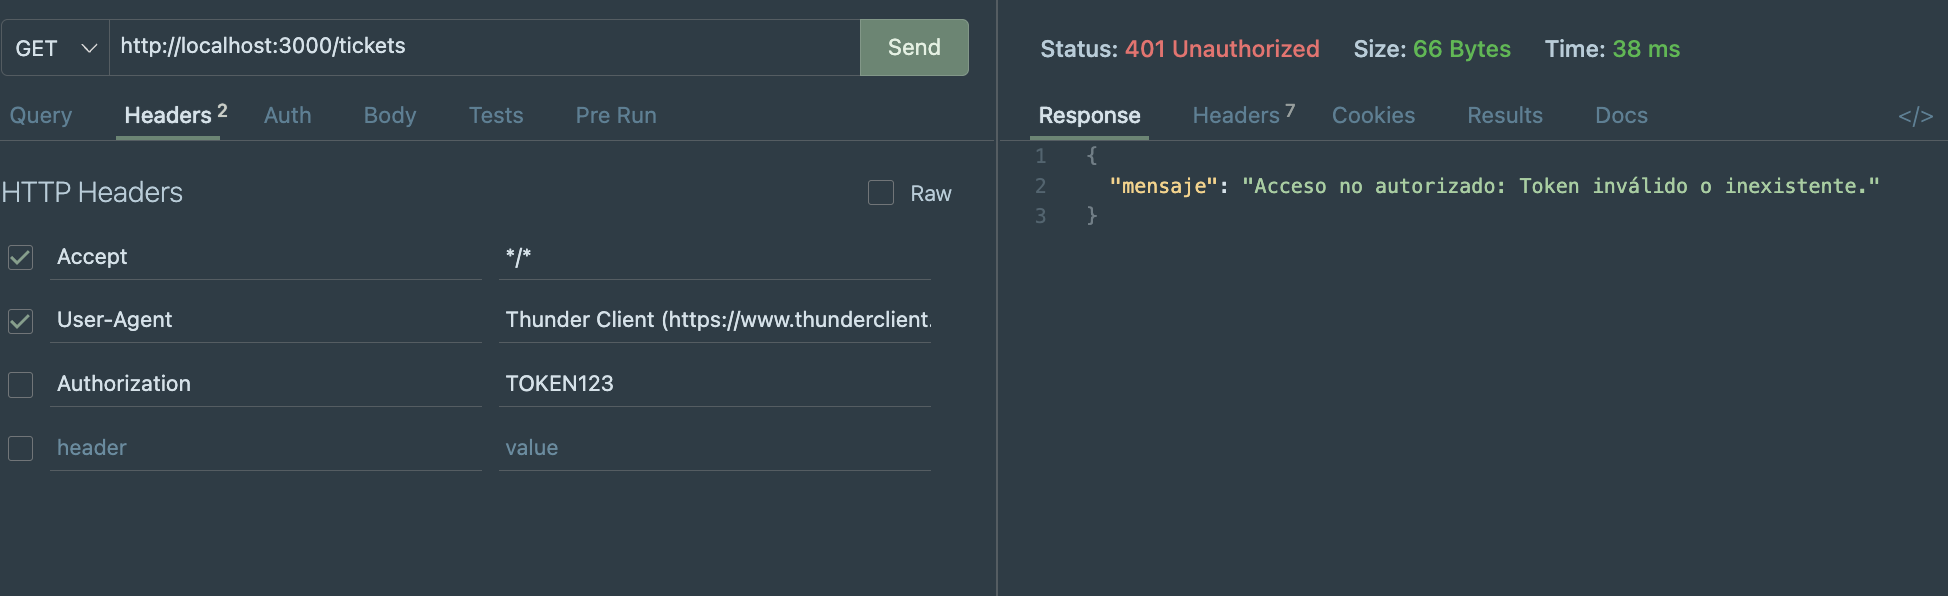
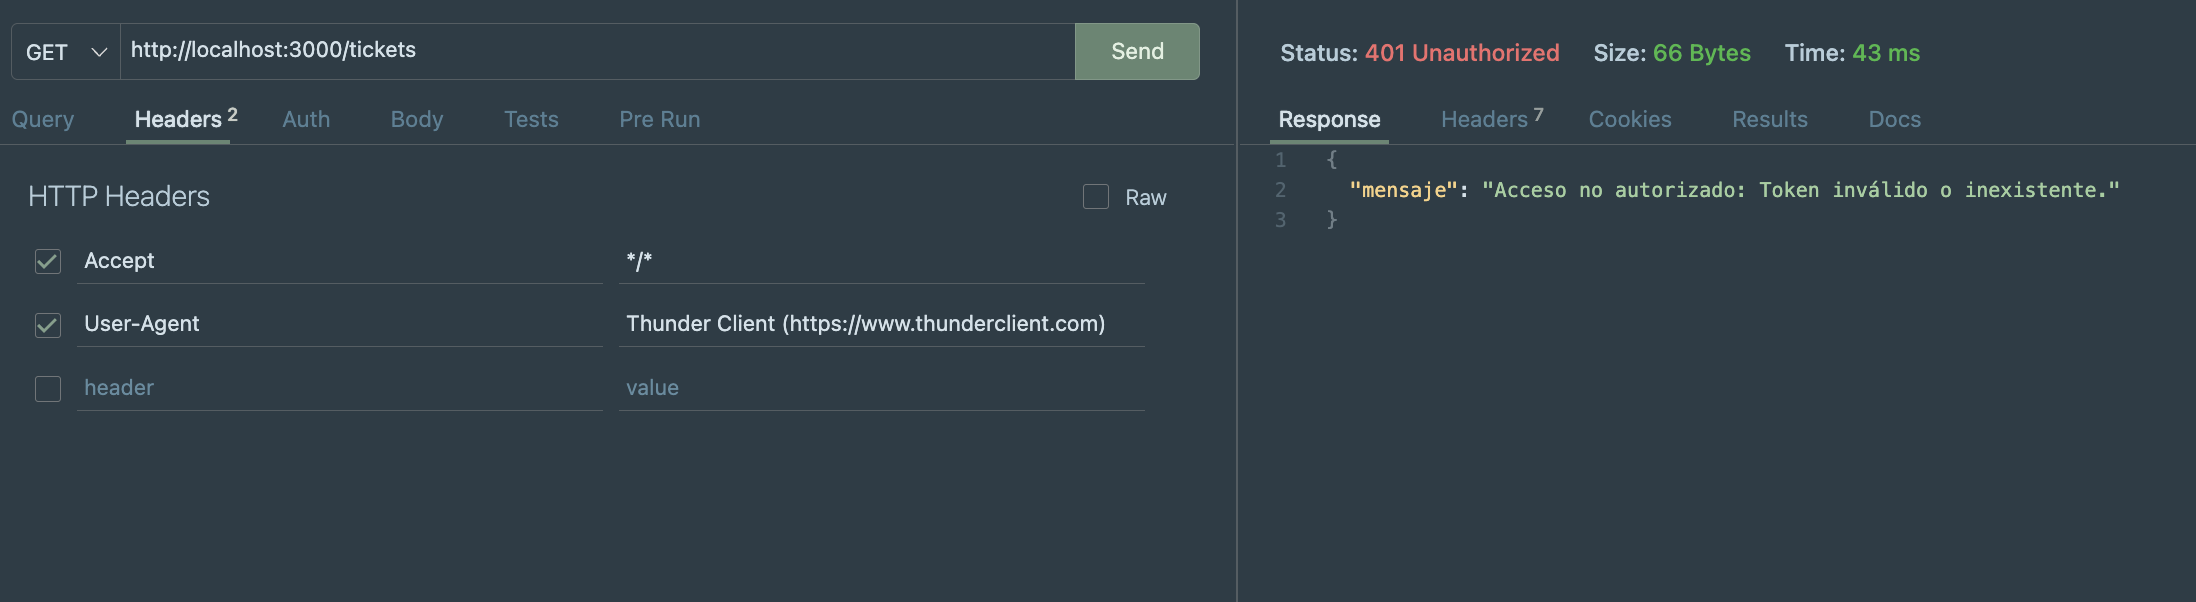
docs: README completo con evidencias y documentación final

diff --git a/README.md b/README.md
@@ -1,1 +1,323 @@
-# Proyecto HelpDesk
+# HelpDesk Smart Priority
+
+![Version](https://img.shields.io/badge/version-1.0.0-brightgreen)
+![License](https://img.shields.io/badge/license-ISC-yellow)
+![Node](https://img.shields.io/badge/node-22%20LTS-green)
+![Express](https://img.shields.io/badge/express-5.x-lightgrey)
+![MySQL](https://img.shields.io/badge/mysql-8.x-blue)
+![Auth](https://img.shields.io/badge/auth-token-orange)
+
+Sistema web para gestionar solicitudes de soporte técnico. Permite registrar, clasificar y resolver tickets según un algoritmo automático de priorización basado en impacto, urgencia, categoría y tiempo estimado.
+
+---
+
+## Tecnologías utilizadas
+
+| Capa | Tecnología |
+|------|-----------|
+| Runtime | Node.js |
+| Framework | Express v5 |
+| Base de datos | MySQL |
+| Driver BD | mysql2 |
+| Variables de entorno | dotenv |
+| CORS | cors |
+| Desarrollo | nodemon |
+| Frontend | HTML, CSS, JavaScript (Fetch API) |
+
+---
+
+## Requisitos previos
+
+- Node.js instalado
+- MySQL instalado y corriendo
+- Git
+
+---
+
+## Instalación
+
+1. Clona el repositorio:
+```bash
+git clone https://github.com/GGallegosO/HelpDesk.git
+cd HelpDesk
+```
+
+2. Instala las dependencias:
+```bash
+npm install
+```
+
+3. Crea la base de datos en MySQL:
+```sql
+CREATE DATABASE helpdesk;
+USE helpdesk;
+
+CREATE TABLE tickets (
+    id INT AUTO_INCREMENT PRIMARY KEY,
+    nombreSolicitante VARCHAR(100) NOT NULL,
+    correo VARCHAR(100) NOT NULL,
+    categoria VARCHAR(50),
+    descripcion TEXT NOT NULL,
+    impacto VARCHAR(20),
+    urgencia VARCHAR(20),
+    tiempoEstimado INT,
+    prioridad VARCHAR(20),
+    estado VARCHAR(20) DEFAULT 'pendiente',
+    fechaCreacion TIMESTAMP DEFAULT CURRENT_TIMESTAMP
+);
+
+CREATE TABLE users (
+    id INT AUTO_INCREMENT PRIMARY KEY,
+    username VARCHAR(50) NOT NULL,
+    password VARCHAR(100) NOT NULL,
+    rol VARCHAR(20) NOT NULL
+);
+
+INSERT INTO users (username, password, rol) VALUES
+('admin', '1234', 'admin'),
+('usuario1', '1234', 'usuario');
+```
+
+4. Configura las variables de entorno. Crea un archivo `.env` en la raíz:
+```env
+DB_HOST=        # host de tu base de datos (ej: localhost)
+DB_USER=        # usuario de MySQL
+DB_PASSWORD=    # contraseña de MySQL
+DB_NAME=        # nombre de la base de datos (ej: helpdesk)
+DB_PORT=        # puerto de MySQL (por defecto 3306)
+PORT=           # puerto del servidor (por defecto 3000)
+SECRET_TOKEN=   # token secreto para autenticación
+```
+
+---
+
+## Ejecución
+
+Modo producción:
+```bash
+npm start
+```
+
+Modo desarrollo (con recarga automática):
+```bash
+npm run dev
+```
+
+El servidor quedará disponible en `http://localhost:3000`
+
+---
+
+## Estructura del proyecto
+
+```
+HelpDesk/
+├── app.js
+├── config/
+├── controllers/
+├── data/
+├── middlewares/
+├── routes/
+├── services/
+├── public/
+│   ├── css/
+│   ├── js/
+│   └── *.html
+└── docs/
+```
+
+---
+
+## Endpoints
+
+### Autenticación
+
+| Método | Endpoint | Descripción | Requiere token |
+|--------|----------|-------------|----------------|
+| POST | `/auth/login` | Iniciar sesión | No |
+
+### Tickets
+
+| Método | Endpoint | Descripción | Requiere token |
+|--------|----------|-------------|----------------|
+| GET | `/tickets` | Listar tickets activos | Sí |
+| GET | `/tickets/historial` | Listar tickets resueltos | Sí |
+| GET | `/tickets/:id` | Obtener ticket por ID | Sí |
+| POST | `/tickets` | Crear nuevo ticket | No |
+| PUT | `/tickets/:id/evaluar` | Evaluar y clasificar ticket | Sí |
+| PUT | `/tickets/:id` | Editar ticket | Sí |
+| PATCH | `/tickets/:id/resolver` | Marcar como resuelto | Sí |
+
+> Los tickets no se eliminan físicamente. Al resolverse cambian su estado a `resuelto` y quedan en el historial.
+
+---
+
+## Ejemplos de uso
+
+### Login
+```http
+POST http://localhost:3000/auth/login
+Content-Type: application/json
+
+{
+  "username": "admin",
+  "password": "1234"
+}
+```
+
+Respuesta exitosa (200):
+```json
+{
+  "mensaje": "Login exitoso",
+  "token": "",
+  "rol": "admin"
+}
+```
+
+### Crear ticket (usuario)
+```http
+POST http://localhost:3000/tickets
+Content-Type: application/json
+
+{
+  "nombreSolicitante": "Juan Pérez",
+  "correo": "juan@empresa.com",
+  "descripcion": "No puedo conectarme a internet"
+}
+```
+Respuesta exitosa (201):
+```json
+{
+  "id": 1,
+  "nombreSolicitante": "Juan Pérez",
+  "correo": "juan@empresa.com",
+  "descripcion": "No puedo conectarme a internet",
+  "estado": "pendiente",
+  "prioridad": null
+}
+```
+
+### Evaluar ticket (admin)
+```http
+PUT http://localhost:3000/tickets/1/evaluar
+Authorization: 
+Content-Type: application/json
+
+{
+  "categoria": "red",
+  "impacto": "alto",
+  "urgencia": "alta",
+  "tiempoEstimado": 5
+}
+```
+Respuesta exitosa (200):
+```json
+{
+  "id": 1,
+  "categoria": "red",
+  "impacto": "alto",
+  "urgencia": "alta",
+  "tiempoEstimado": 5,
+  "prioridad": "Crítica",
+  "estado": "en proceso"
+}
+```
+
+### Resolver ticket (admin)
+```http
+PATCH http://localhost:3000/tickets/1/resolver
+Authorization: 
+```
+Respuesta exitosa (200):
+```json
+{
+  "mensaje": "Ticket marcado como resuelto"
+}
+```
+
+---
+
+## Algoritmo de priorización
+
+El sistema calcula automáticamente la prioridad de cada ticket:
+
+**Puntaje por impacto:**
+- bajo = 1 punto
+- medio = 2 puntos
+- alto = 3 puntos
+
+**Puntaje por urgencia:**
+- baja = 1 punto
+- media = 2 puntos
+- alta = 3 puntos
+
+**Bonus:**
+- Categoría `red` o `cuenta` → +1 punto
+- Tiempo estimado > 4 horas → +1 punto
+
+**Resultado:**
+
+| Puntaje | Prioridad |
+|---------|-----------|
+| 1 a 3 | Baja |
+| 4 a 5 | Media |
+| 6 | Alta |
+| 7 o más | Crítica |
+
+---
+
+## Seguridad
+
+### Autenticación por token
+El sistema utiliza un token estático definido en `.env` (`SECRET_TOKEN`). Al iniciar sesión correctamente, el servidor retorna este token que debe enviarse en el header `Authorization` de cada petición protegida.
+
+### ¿Qué es HTTPS?
+HTTPS (HyperText Transfer Protocol Secure) es la versión segura del protocolo HTTP. Utiliza cifrado SSL/TLS para proteger la comunicación entre el navegador y el servidor.
+
+### ¿Qué riesgos mitiga?
+- **Interceptación de datos (Man-in-the-Middle):** cifra el tráfico para que terceros no puedan leer los datos transmitidos, como contraseñas o tokens.
+- **Robo de credenciales:** sin HTTPS, usuario y contraseña viajan en texto plano y pueden ser capturados en redes públicas.
+- **Manipulación de respuestas:** garantiza que la respuesta del servidor no fue alterada en tránsito.
+
+### ¿Por qué es importante en aplicaciones web?
+En este sistema, el token de autenticación y las credenciales de login se transmiten en cada petición. Sin HTTPS, cualquier persona en la misma red podría capturar ese token y suplantar a un administrador, accediendo a todos los tickets y pudiendo modificarlos. HTTPS protege la integridad y confidencialidad de esa información.
+
+---
+
+## Evidencias
+
+### Estructura del proyecto
+![Estructura](docs/img/estructuraProyecto.png)
+
+### Servidor ejecutándose
+![Servidor](docs/img/servidorejecutandose.png)
+
+### Operación exitosa (200)
+![Ticket listado](docs/img/getTicket200.png)
+
+### Ticket creado (201)
+![Ticket creado](docs/img/tickets_201.png)
+
+### Error validación (400)
+![Error 400](docs/img/postTicket400.png)
+
+### Sin token (401)
+![Sin token](docs/img/getTicketSinToken401.png)
+
+### Ticket no encontrado (404)
+![Ticket no encontrado](docs/img/getTicket404.png)
+
+### Error interno del servidor (500)
+![Error interno](docs/img/getTicket500.png)
+
+### Formulario funcionando
+![Formulario](docs/img/formulario.png)
+
+### Repositorio GitHub
+![GitHub](docs/img/github.png)
+
+---
+
+## Autor
+
+**Gustavo Gallegos**  
+[github.com/GGallegosO](https://github.com/GGallegosO)
